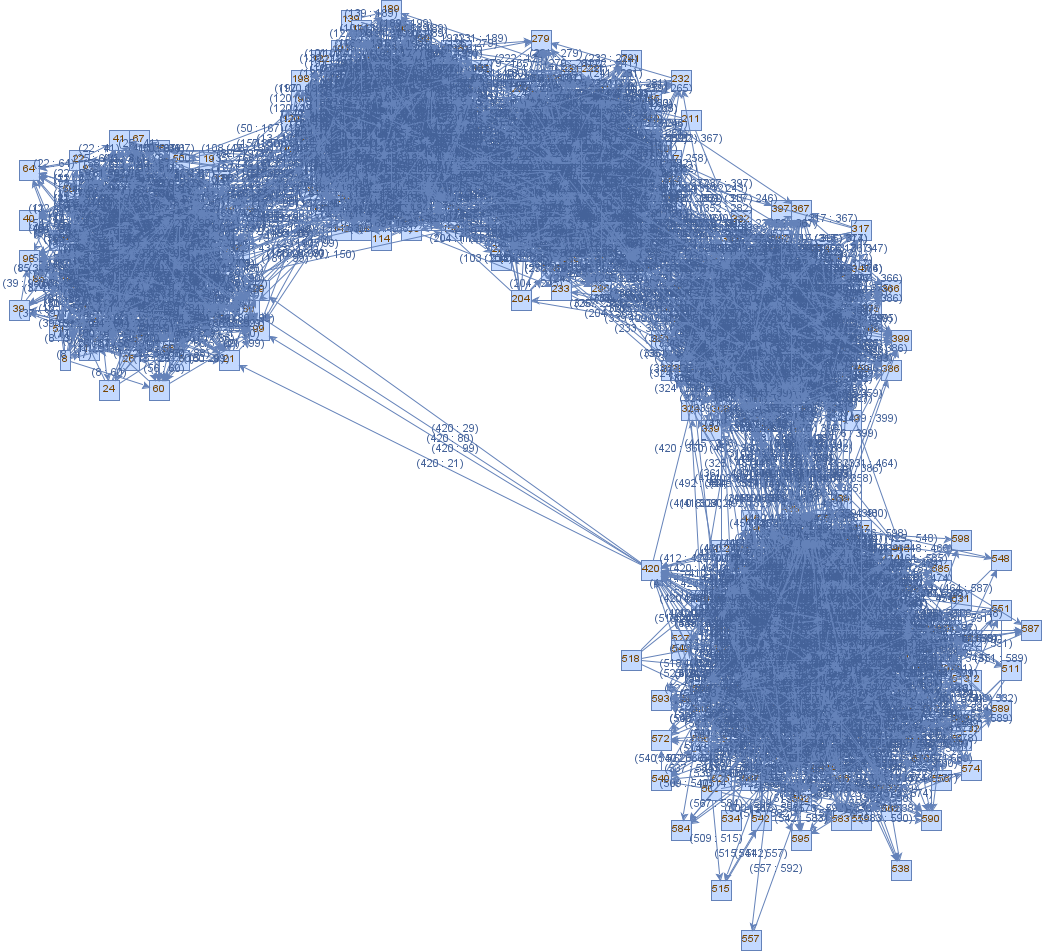
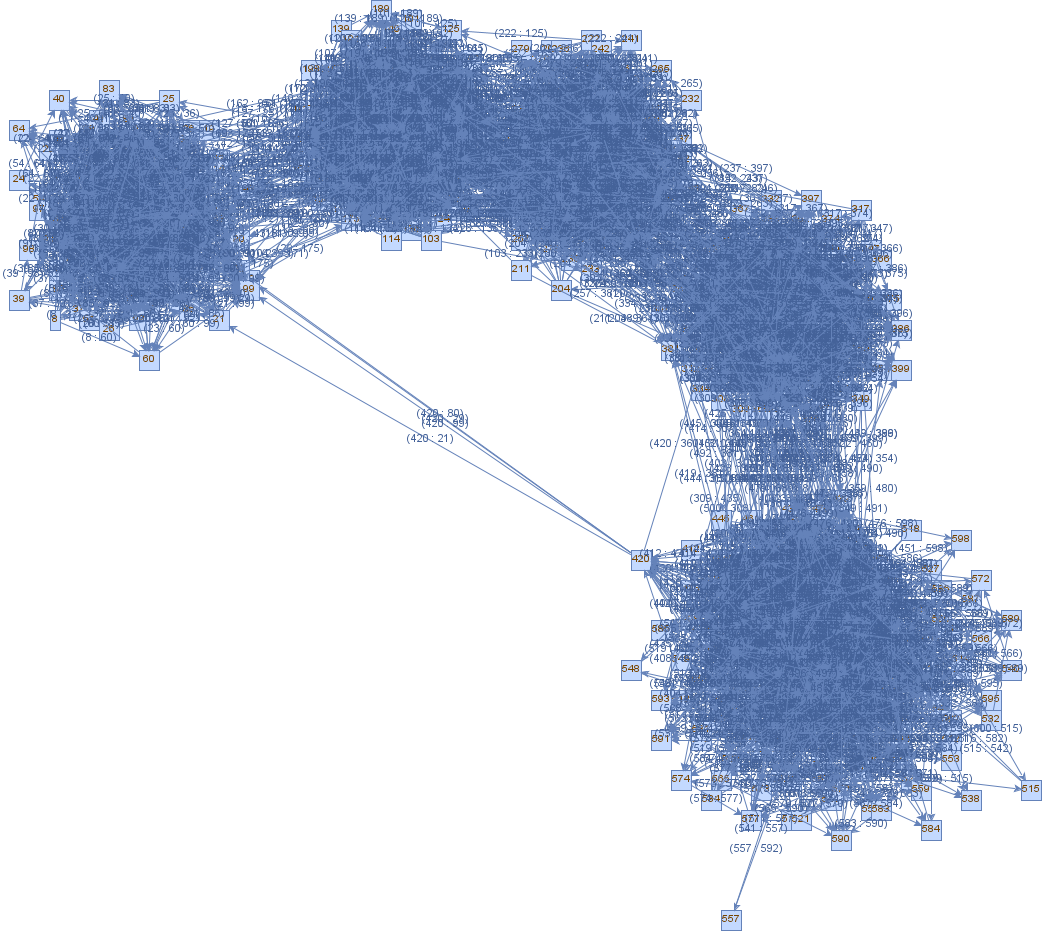
GUI dos grafos funcional

Changed region(s): [[0.0, 0.0, 1.0, 1.0]]

diff --git a/GestaodoTerritorio/src/main/resources/grupo/n/gestaodoterritorio/css/styles.css b/GestaodoTerritorio/src/main/resources/grupo/n/gestaodoterritorio/css/styles.css
@@ -318,3 +318,27 @@
     -fx-min-height: Region.USE_COMPUTED_SIZE;
 }
 
+
+/* Alert Window */
+.alert-window{
+    -fx-background-color: #393939;
+
+}
+
+.alert-window Label{
+    -fx-text-fill: white;
+}
+
+.alert-window ProgressBar {
+    -fx-background-color: transparent; /* Fundo da barra */
+}
+
+.alert-window ProgressBar .track {
+    -fx-background-color: #737373; /* Cor do fundo da progress bar */
+    -fx-background-radius: 10px;
+}
+
+.alert-window ProgressBar .bar {
+    -fx-background-color: linear-gradient(to right, #bcbcbc, #e8e8e8); /* Gradiente na barra */
+    -fx-background-radius: 10px;
+}

diff --git a/GestaodoTerritorio/src/main/java/grupo/n/gestaodoterritorio/Graph.java b/GestaodoTerritorio/src/main/java/grupo/n/gestaodoterritorio/Graph.java
@@ -1,11 +1,8 @@
 package grupo.n.gestaodoterritorio;
 
 
+import com.mxgraph.layout.*;
 import com.mxgraph.layout.hierarchical.mxHierarchicalLayout;
-import com.mxgraph.layout.mxCircleLayout;
-import com.mxgraph.layout.mxFastOrganicLayout;
-import com.mxgraph.layout.mxGraphLayout;
-import com.mxgraph.layout.mxParallelEdgeLayout;
 import com.mxgraph.util.mxCellRenderer;
 import com.vividsolutions.jts.geom.Geometry;
 import org.jgrapht.ext.JGraphXAdapter;
@@ -99,8 +96,8 @@ public class Graph<V> { // Classe genérica com <V> representando os vértices
             graphAdapter.getStylesheet().getDefaultVertexStyle().put("autosize", true);
             graphAdapter.getStylesheet().getDefaultVertexStyle().put("spacing", 10);
 
-            // Configura layout circular
             mxFastOrganicLayout layout = new mxFastOrganicLayout(graphAdapter);
+            // Configura layout circular
             //mxCircleLayout layout = new mxCircleLayout(graphAdapter);
             //layout.setRadius(300);
             layout.execute(graphAdapter.getDefaultParent());
@@ -108,11 +105,11 @@ public class Graph<V> { // Classe genérica com <V> representando os vértices
             // Renderiza o grafo como imagem
             BufferedImage image = mxCellRenderer.createBufferedImage(graphAdapter, null, 1, null, true, null);
 
-            // Limitar dimensões (PARA DETETAR O ERRO)
-            if (image.getWidth() > 5000 || image.getHeight() > 5000) {
-                System.err.println("Dimensões da imagem excedem o limite permitido.");
-                return;
-            }
+            // Limitar dimensões
+            //if (image.getWidth() > 10000 || image.getHeight() > 10000) {
+            //    System.err.println("Dimensões da imagem excedem o limite permitido.");
+            //    return;
+            //}
 
             // Salva a imagem no disco
             File outputFile = new File("GestaodoTerritorio/src/main/images/grafo" + imgName + ".png");

diff --git a/GestaodoTerritorio/src/main/java/grupo/n/gestaodoterritorio/managers/LoadingWindowManager.java b/GestaodoTerritorio/src/main/java/grupo/n/gestaodoterritorio/managers/LoadingWindowManager.java
@@ -1,0 +1,54 @@
+package grupo.n.gestaodoterritorio.managers;
+
+import grupo.n.gestaodoterritorio.controllers.AlertWindowViewController;
+import javafx.application.Platform;
+import javafx.fxml.FXMLLoader;
+import javafx.scene.Scene;
+import javafx.stage.Modality;
+import javafx.stage.Stage;
+
+public class LoadingWindowManager {
+    private static Stage loadingStage;
+    private static AlertWindowViewController controller;
+
+    public static void showLoadingWindow(String message) {
+        if (loadingStage == null) {
+            try {
+                FXMLLoader loader = new FXMLLoader(LoadingWindowManager.class.getResource("/fxml/alert-window-view.fxml"));
+                Scene scene = new Scene(loader.load());
+
+                controller = loader.getController();
+                loadingStage = new Stage();
+                loadingStage.setScene(scene);
+                loadingStage.initModality(Modality.APPLICATION_MODAL);
+                loadingStage.setResizable(false);
+
+                controller.setStage(loadingStage);
+            } catch (Exception e) {
+                e.printStackTrace();
+                return;
+            }
+        }
+
+        Platform.runLater(() -> {
+            controller.setMessage(message);
+            controller.setProgress(-1); // Indeterminate mode
+            loadingStage.show();
+        });
+    }
+
+    public static void updateProgress(double progress) {
+        if (controller != null) {
+            Platform.runLater(() -> controller.setProgress(progress));
+        }
+    }
+
+    public static void closeLoadingWindow() {
+        if (loadingStage != null) {
+            Platform.runLater(() -> {
+                loadingStage.close();
+                loadingStage = null;
+            });
+        }
+    }
+}

diff --git a/GestaodoTerritorio/src/main/java/grupo/n/gestaodoterritorio/controllers/AlertWindowViewController.java b/GestaodoTerritorio/src/main/java/grupo/n/gestaodoterritorio/controllers/AlertWindowViewController.java
@@ -1,0 +1,35 @@
+package grupo.n.gestaodoterritorio.controllers;
+
+import javafx.fxml.FXML;
+import javafx.scene.control.Label;
+import javafx.scene.control.ProgressBar;
+import javafx.stage.Stage;
+
+public class AlertWindowViewController {
+
+    @FXML
+    private Label messageLabel;
+
+    @FXML
+    private ProgressBar progressBar;
+
+    private Stage stage;
+
+    public void setStage(Stage stage) {
+        this.stage = stage;
+    }
+
+    public void setMessage(String message) {
+        messageLabel.setText(message);
+    }
+
+    public void setProgress(double progress) {
+        progressBar.setProgress(progress);
+    }
+
+    public void close(){
+        if(stage != null)
+            stage.close();
+    }
+
+}
